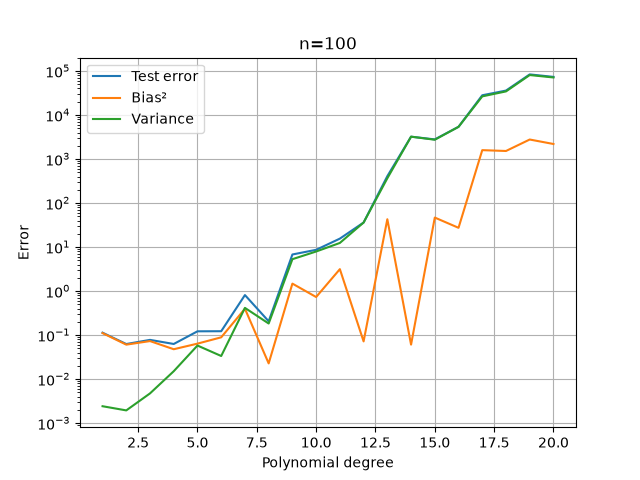
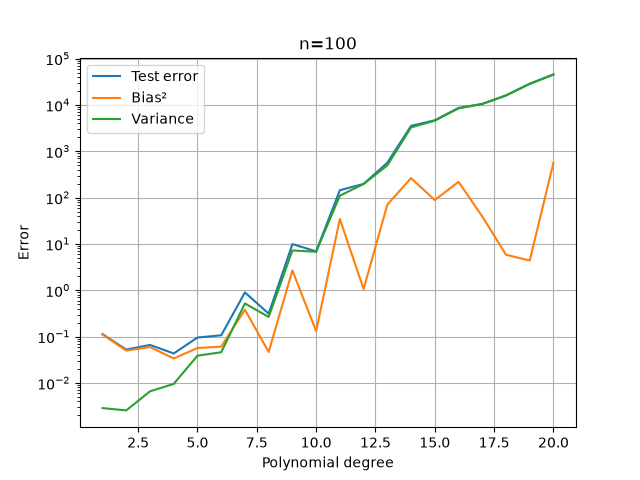
Usikker på hva som er endret her

diff --git a/Project1/Project1c2Ridge.py b/Project1/Project1c2Ridge.py
@@ -1,0 +1,99 @@
+import numpy as np
+import matplotlib.pyplot as plt
+from sklearn.model_selection import train_test_split
+from sklearn.linear_model import LinearRegression, Ridge
+from sklearn.preprocessing import PolynomialFeatures, StandardScaler
+from sklearn.pipeline import make_pipeline
+from sklearn.model_selection import KFold, cross_val_score
+from sklearn.utils import resample
+
+xmin=(-1)
+xmax=1
+seed=2026
+n=100
+noise=0.1
+rng = np.random.default_rng(seed)
+x = rng.uniform(xmin, xmax, n).reshape(-1,1)
+y = 1.0 / (1.0 + 25.0 * x**2) + np.random.normal(0, noise, x.shape)
+
+n_bootstrap = 100
+degrees = np.arange(1, 21)
+
+
+x_train, x_test, y_train, y_test = train_test_split(
+    x, y,
+    test_size=0.2,
+    random_state=2026
+)
+
+lambdas=np.array((0, 0.01, 0.1, 0.5))
+for lam in lambdas:
+    test_errors = []
+    bias_squared = []
+    variances = []
+    for degree in degrees:
+
+        y_pred_bootstrap = np.zeros(
+            (n_bootstrap, len(x_test))
+        )
+
+        for i in range(n_bootstrap):
+
+            x_boot, y_boot = resample(
+                x_train,
+                y_train,
+                replace=True,
+                random_state=2026 + i
+            )
+
+            model = make_pipeline(
+                PolynomialFeatures(degree),
+                StandardScaler(),
+                Ridge(alpha=lam)
+            )
+
+            model.fit(x_boot, y_boot)
+
+            y_pred_bootstrap[i, :] = model.predict(x_test).ravel()
+
+
+        y_pred_mean = np.mean(
+            y_pred_bootstrap,
+            axis=0
+        )
+
+
+        error = np.mean(
+            (y_test.ravel() - y_pred_bootstrap) ** 2
+        )
+
+
+        bias = np.mean(
+            (y_test.ravel() - y_pred_mean) ** 2
+        )
+
+
+        variance = np.mean(
+            (y_pred_bootstrap - y_pred_mean) ** 2
+        )
+
+
+        test_errors.append(error)
+        bias_squared.append(bias)
+        variances.append(variance)
+    plt.plot(degrees, test_errors, label=fr"$\lambda=${lam}")
+
+
+
+plt.title(f"Ridge at n={n}")
+#plt.plot(degrees, test_errors, label="Test error")
+#plt.plot(degrees, bias_squared, label="Bias²")
+#plt.plot(degrees, variances, label="Variance")
+plt.yscale("log")
+plt.xlabel("Polynomial degree")
+plt.ylabel("Error")
+plt.legend()
+plt.grid()
+plt.savefig(f"Project2c2n{n}Ridge.png")
+plt.show()
+print("Optimal degree", degrees[np.argmin(test_errors)])
